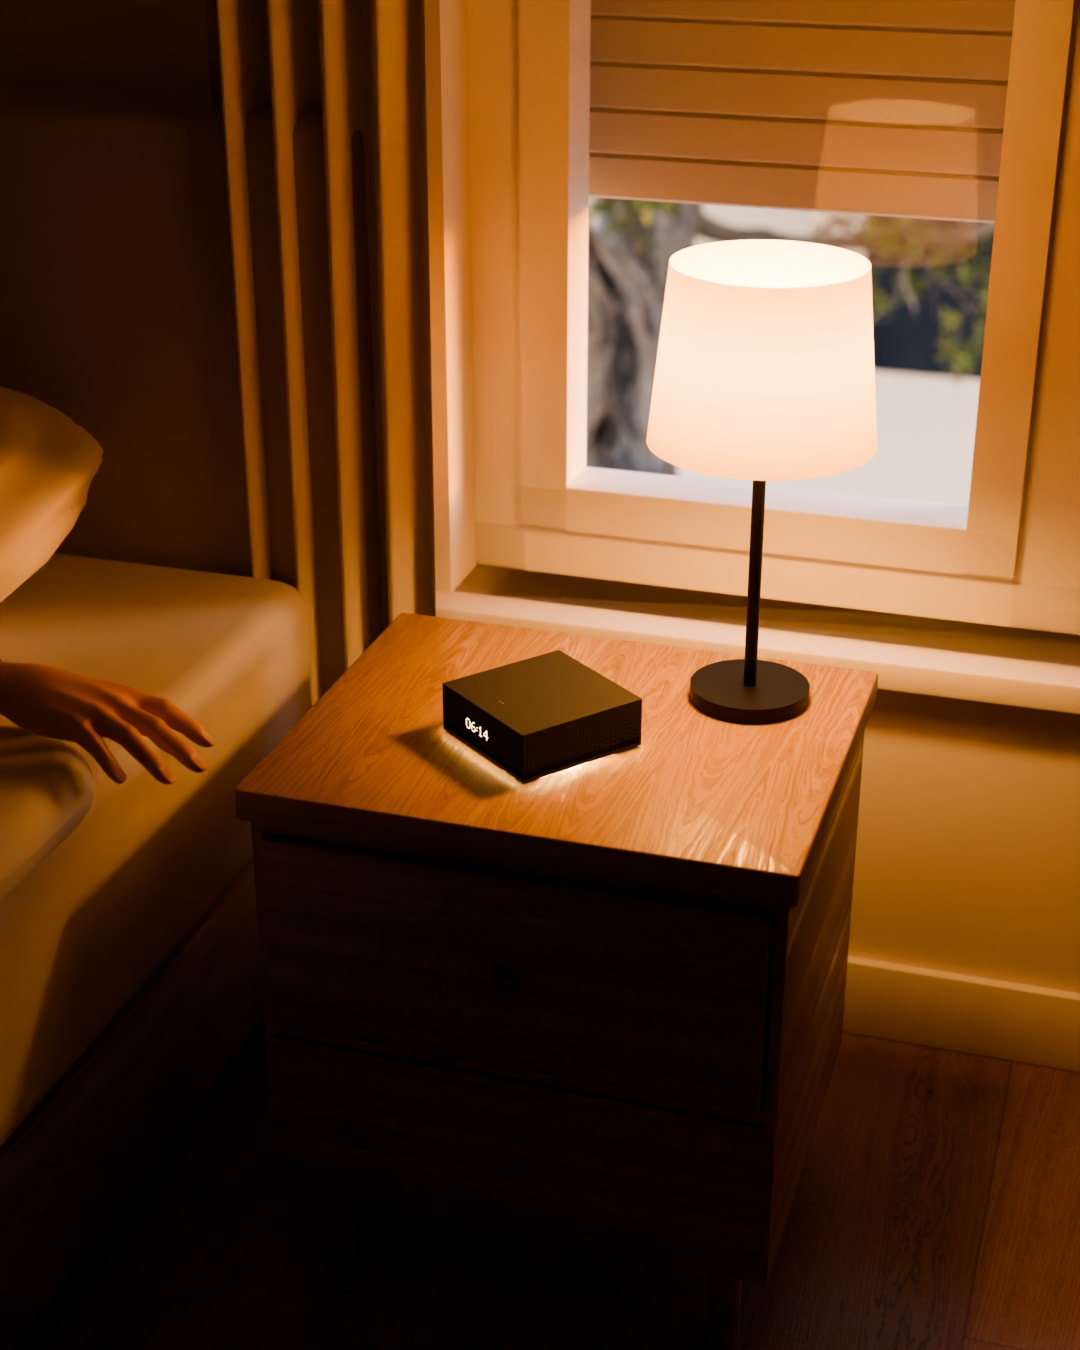
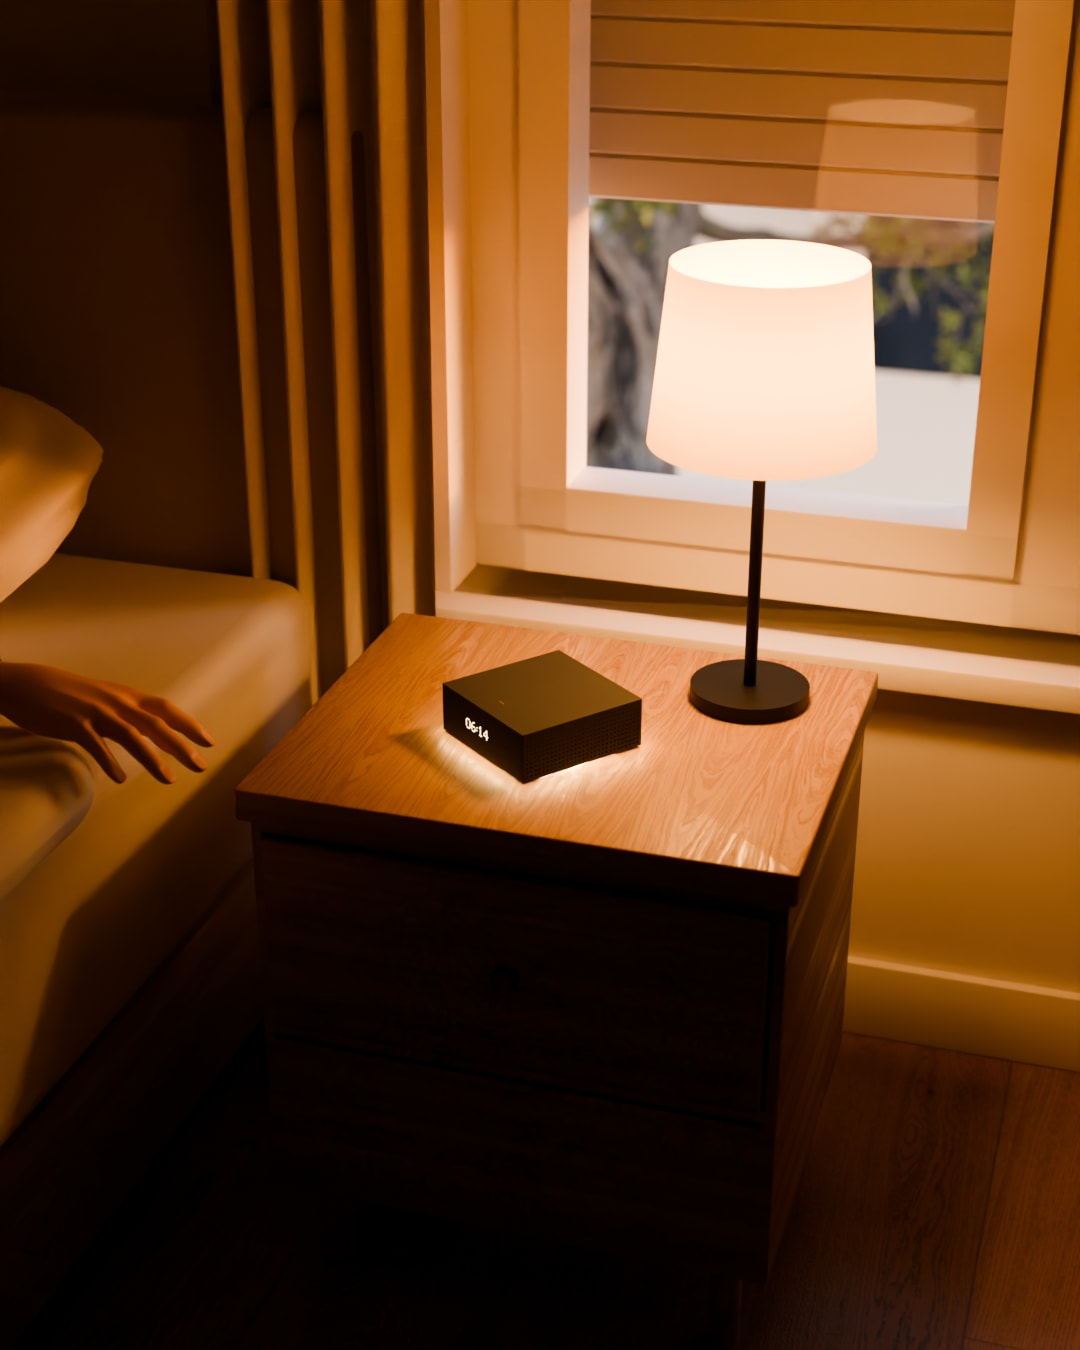
AuraWake scenes: the LED halo clearly visible again, wider, still real light

Changed region(s): [[0.3667, 0.5289, 0.6111, 0.6222]]

diff --git a/deck/blender/bedroom.py b/deck/blender/bedroom.py
@@ -19,7 +19,7 @@ ROOM = {   # time, lamp (share of 14 W, kelvin), ring colour or None, shutter op
     5: ('06:20', (0.62, 4400), DAWN, 0.65, 0.85, 2.4),
 }
 LED_W = {1: 20000.0, 4: 16000.0, 5: 30000.0}          # emission of the strip under the base: the bright contact line
-LED_SPILL = {1: 11.0, 4: 9.0, 5: 18.0}                # emission of the light that leaves the gap all along the base's edge: the soft halo
+LED_SPILL = {1: 55.0, 4: 38.0, 5: 115.0}                # emission of the light that leaves the gap all along the base's edge: the soft halo
 TEX = os.path.join(os.path.dirname(os.path.abspath(__file__)), 'assets', 'polyhaven_tex')
 FLOOR_Z, CEIL_Z, WALL_Y = -0.50, 2.20, 0.39
 BASE_ROT = math.radians(-38)                     # the base turned to the bed (owner, 2026-11-08): the time faces the pillow and the camera at about the same angle
@@ -81,29 +81,17 @@ def mat_room():
 
 def led_spill(color, strength):
     """The light that leaves the 2 mm gap: the strip fills the gap with bounced light and it spills out all along the base's edge.
-    A thin source hugging the footprint, unseen by the camera, a little stronger at the middle of each side, nearer the round strip."""
-    a, rc, t, z0 = W / 2 + 0.0016, EDGE_P + 0.0016, 0.0016, 0.0065
-    m = emit('led_spill', color, strength); nt = m.node_tree; e = next(n for n in nt.nodes if n.type == 'EMISSION')
-    tc = nt.nodes.new('ShaderNodeTexCoord'); sp = nt.nodes.new('ShaderNodeSeparateXYZ'); nt.links.new(tc.outputs['Object'], sp.inputs[0])
-    cb = nt.nodes.new('ShaderNodeCombineXYZ'); nt.links.new(sp.outputs[0], cb.inputs[0]); nt.links.new(sp.outputs[1], cb.inputs[1])
-    ln = nt.nodes.new('ShaderNodeVectorMath'); ln.operation = 'LENGTH'; nt.links.new(cb.outputs[0], ln.inputs[0])
-    d = nt.nodes.new('ShaderNodeMath'); d.operation = 'SUBTRACT'; nt.links.new(ln.outputs['Value'], d.inputs[0]); d.inputs[1].default_value = W / 2
-    k = nt.nodes.new('ShaderNodeMath'); k.operation = 'MULTIPLY'; nt.links.new(d.outputs[0], k.inputs[0]); k.inputs[1].default_value = -1 / 0.03
-    x = nt.nodes.new('ShaderNodeMath'); x.operation = 'EXPONENT'; nt.links.new(k.outputs[0], x.inputs[0])
-    f = nt.nodes.new('ShaderNodeMath'); f.operation = 'MULTIPLY'; nt.links.new(x.outputs[0], f.inputs[0]); f.inputs[1].default_value = strength; nt.links.new(f.outputs[0], e.inputs['Strength'])
-    MATS['led_spill'] = m
-    pts = []
-    for (sx, sy, a0) in ((1, 1, 0), (-1, 1, 90), (-1, -1, 180), (1, -1, 270)):
-        for i in range(13):
-            th = math.radians(a0 + 90 * i / 12); pts.append((sx * (a - rc) + rc * math.cos(th), sy * (a - rc) + rc * math.sin(th), math.cos(th), math.sin(th)))
-    bm = bmesh.new(); rings = []; ns = 8
-    for x_, y_, nx, ny in pts:
-        rings.append([bm.verts.new((x_ + t * math.cos(b) * nx, y_ + t * math.cos(b) * ny, z0 + t * math.sin(b))) for b in (2 * math.pi * j / ns for j in range(ns))])
-    for i, r0 in enumerate(rings):
-        r1 = rings[(i + 1) % len(rings)]
-        for j in range(ns): bm.faces.new((r0[j], r1[j], r1[(j + 1) % ns], r0[(j + 1) % ns]))
-    ob = link('led_spill', bm, 'led_spill'); ob.rotation_euler = (0, 0, BASE_ROT); ob.visible_camera = False; ob.visible_shadow = False
-    return ob
+    A row of tiny point lights hugging the footprint (lights, not meshes: a thin emitter here left a band on the base's sides),
+    a little stronger at the middle of each side, nearer the round strip. strength = radiance of the source they stand for."""
+    a, t, z0, step = W / 2 + 0.0016, 0.0016, 0.012, 0.005
+    n_ = int(round(2 * a / step)); c, sn = math.cos(BASE_ROT), math.sin(BASE_ROT); obs = []
+    for side in range(4):
+        for i in range(n_):
+            u = -a + (i + 0.5) * step; x, y = {0: (u, -a), 1: (a, u), 2: (-u, a), 3: (-a, -u)}[side]
+            P = 4 * math.pi * strength * 2 * t * step * math.exp(-(math.hypot(x, y) - W / 2) / 0.03)
+            ld = bpy.data.lights.new(f'spill{side}_{i}', 'POINT'); ld.color = color[:3]; ld.energy = P; ld.shadow_soft_size = 0.005
+            o = bpy.data.objects.new(ld.name, ld); col.objects.link(o); o.location = (x * c - y * sn, x * sn + y * c, z0); o.visible_camera = False; obs.append(o)
+    return obs
 
 def only_on_the_wood(*obs):
     """Light linking: the strip lights the nightstand's top and nothing else, so its grazing rays draw no line across the room."""
@@ -283,7 +271,7 @@ def bedroom_scene(n):
     b_ = build_base(with_time=bool(t), time=t or '06:30'); b_.rotation_euler = (0, 0, BASE_ROT)
     build_shell(); build_window(shut); build_curtains(); build_stand(); build_bed(n); build_lamp(lamp)
     if shut > 0: build_outside(n)
-    if ring: only_on_the_wood(bpy.data.objects['ring'], led_spill(srgb(ring), LED_SPILL[n]))
+    if ring: only_on_the_wood(bpy.data.objects['ring'], *led_spill(srgb(ring), LED_SPILL[n]))
     build_arm(n)
     set_sky(sky)
     x0, x1, z0, z1 = WIN

diff --git a/HANDOFF.md b/HANDOFF.md
@@ -1338,6 +1338,8 @@ When a CLOUD session hits something that needs the local environment, it must:
   (`ring_glow`, emission decal) is gone. The strip under the base lights the top, plus `led_spill`: a thin source along the base's edge,
   unseen by the camera, for the light that leaves the 2 mm gap (stronger mid-side). Both are light-linked to `stand_top` only (`only_on_the_wood`),
   otherwise the grazing rays draw a line across curtains and bed. Strengths in `LED_W` / `LED_SPILL`. Scenes 2, 3 (LED off) not re-rendered.
+  Same day, owner: "visibile bene come prima": `LED_SPILL` raised, source 12 mm up for a wider halo, and `led_spill` is now a row of point lights
+  every 5 mm (a thin mesh emitter left a band on the base's sides).
 - **2026-11-08 · LOCAL (109)** · Scenes: the base turned 38° towards the bed so the time reads from the pillow (`BASE_ROT` in
   bedroom.py, also applied to the ring's glow), camera moved about 15° round the nightstand to (0.46, -1.48, 0.78). The owner
   compared it side by side with the front-on version and chose this one.
